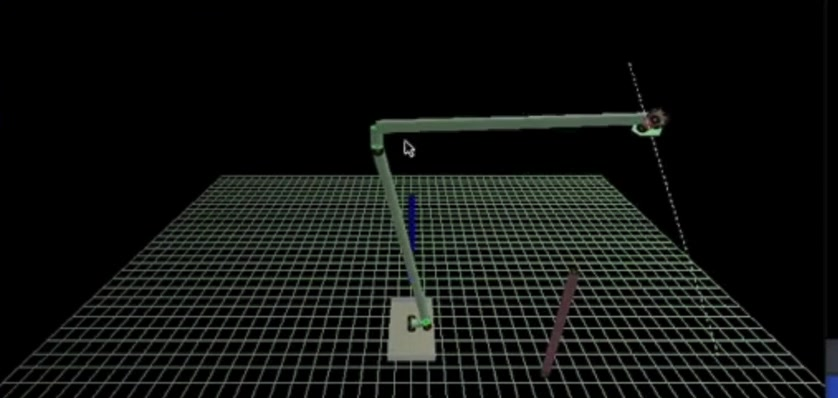
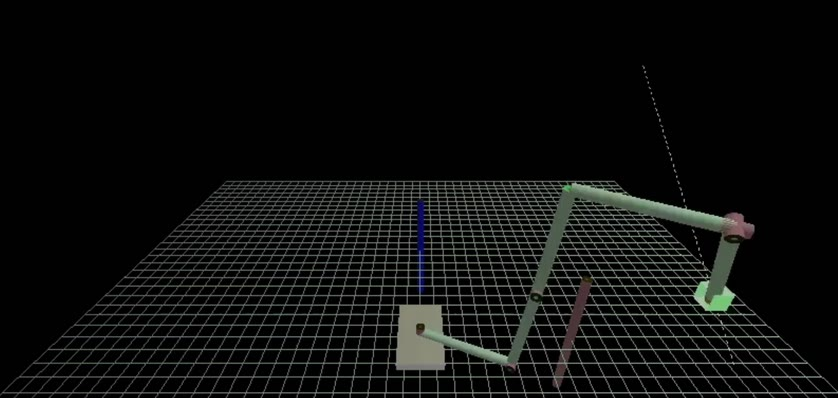
portfolio/resume: reorder projects, drop TimberTimer, refresh 6-DOF media, monospace font
- portfolio web + PDF: move the 6-DOF robot project above the hackathon
- remove TimberTimer from homepage and portfolio web; remove the Web Apps
  section entirely from the portfolio PDF (now 11 pages)
- regenerate 6-DOF poster + demo webm from the updated recording
  (cropped to the OpenGL viewport; lighter web video, 382KB)
- site font -> VSCode-style monospace stack (homepage + portfolio web)
- homepage: make the intro heading match body text size/style
- resume: add control/estimation + ML skills (MPC/PID/LQR/KF-EKF/2D SLAM,
  GP, NN, motion planning), MATLAB/CasADi/OpenCV, undergrad thesis; tidy the
  skills section, rename sections, fix bullet punctuation

Changed region(s): [[0.0, 0.2412, 1.0, 1.0], [0.7446, 0.1508, 0.7757, 0.2111]]

diff --git a/portfolio/index.html b/portfolio/index.html
@@ -32,7 +32,7 @@
             --accent: #3b82f6;
             --border: #333333;
             --card-bg: #1a1a1a;
-            --font-main: -apple-system, BlinkMacSystemFont, "Segoe UI", Roboto, Helvetica, Arial, sans-serif;
+            --font-main: 'Droid Sans Mono', Menlo, Monaco, Consolas, 'Courier New', monospace;
         }
 
         [data-theme="light"] {
@@ -565,6 +565,34 @@
         </article>
 
         <article class="project">
+            <h2>6-DOF Robot Manipulator Simulation (OpenGL)</h2>
+            <div class="tags">
+                <span class="tag">Robotics course project</span>
+                <span class="tag">Robot kinematics</span>
+                <span class="tag">C / OpenGL</span>
+                <span class="tag">Universitas Indonesia</span>
+                <span class="tag">May 2023</span>
+            </div>
+            <ul>
+                <li>Built as a project for a robotics course at Universitas Indonesia.</li>
+                <li>Real-time 3D visualization of a 6-DOF robot arm, built in C with OpenGL (GLUT).</li>
+                <li>Implements forward kinematics and Jacobian pseudoinverse-based inverse kinematics for end-effector
+                    position control.</li>
+                <li>Generates linear point-to-point trajectories between commanded poses.</li>
+                <li>Streams joint commands to the physical robot over serial communication.</li>
+            </ul>
+            <div class="project-media">
+                <video muted loop playsinline preload="none" data-autoplay width="838" height="398"
+                    poster="robot6dof.jpg">
+                    <source src="robot6dof_demo.webm" type="video/webm">
+                </video>
+            </div>
+            <div class="project-links">
+                <a href="https://github.com/hanifedma/robot-6dof-opengl" target="_blank">Source &rarr;</a>
+            </div>
+        </article>
+
+        <article class="project">
             <h2>Corrosion Detection App (Computer Vision)</h2>
             <div class="tags">
                 <span class="tag award">🏆 1st place</span>
@@ -597,64 +625,7 @@
             </div>
         </article>
 
-        <article class="project">
-            <h2>6-DOF Robot Manipulator Simulation (OpenGL)</h2>
-            <div class="tags">
-                <span class="tag">Robotics course project</span>
-                <span class="tag">Robot kinematics</span>
-                <span class="tag">C / OpenGL</span>
-                <span class="tag">Universitas Indonesia</span>
-                <span class="tag">May 2023</span>
-            </div>
-            <ul>
-                <li>Built as a project for a robotics course at Universitas Indonesia.</li>
-                <li>Real-time 3D visualization of a 6-DOF robot arm, built in C with OpenGL (GLUT).</li>
-                <li>Implements forward kinematics and Jacobian pseudoinverse-based inverse kinematics for end-effector
-                    position control.</li>
-                <li>Generates linear point-to-point trajectories between commanded poses.</li>
-                <li>Streams joint commands to the physical robot over serial communication.</li>
-            </ul>
-            <div class="project-media">
-                <video muted loop playsinline preload="none" data-autoplay width="838" height="398"
-                    poster="robot6dof.jpg">
-                    <source src="robot6dof_demo.webm" type="video/webm">
-                </video>
-            </div>
-            <div class="project-links">
-                <a href="https://github.com/hanifedma/robot-6dof-opengl" target="_blank">Source &rarr;</a>
-            </div>
-        </article>
-
         <p class="section-label">Web Apps</p>
-
-        <article class="project">
-            <h2>TimberTimer</h2>
-            <div class="tags">
-                <span class="tag">Web app</span>
-                <span class="tag">Vanilla JS</span>
-                <span class="tag">Supabase</span>
-                <span class="tag">PWA</span>
-            </div>
-            <ul>
-                <li>Minimalist, jungle-themed focus timer that grows a virtual forest — one tree per completed session.
-                </li>
-                <li>Rest stopwatch, editable session history, and daily and cumulative stats.</li>
-                <li>Local-first storage with optional cross-device sync (Supabase + Google sign-in).</li>
-                <li>Installable as a Progressive Web App; built with vanilla JavaScript, HTML, and CSS.</li>
-            </ul>
-            <div class="project-media">
-                <picture>
-                    <source srcset="timbertimer.webp" type="image/webp">
-                    <img src="timbertimer.jpg"
-                        alt="TimberTimer app — focus timer with session settings, to-do list, and a weekly forest"
-                        loading="lazy" width="960" height="615">
-                </picture>
-            </div>
-            <div class="project-links">
-                <a href="https://hanifedma.com/timbertimer" target="_blank">Open app &rarr;</a>
-                <a href="https://github.com/hanifedma/timbertimer" target="_blank">Source &rarr;</a>
-            </div>
-        </article>
 
         <article class="project">
             <h2>CanopyDiary</h2>

diff --git a/index.html b/index.html
@@ -32,7 +32,7 @@
             --accent: #3b82f6;
             --border: #333333;
             --card-bg: #1a1a1a;
-            --font-main: -apple-system, BlinkMacSystemFont, "Segoe UI", Roboto, Helvetica, Arial, sans-serif;
+            --font-main: 'Droid Sans Mono', Menlo, Monaco, Consolas, 'Courier New', monospace;
         }
 
         [data-theme="light"] {
@@ -302,12 +302,11 @@
         }
 
         header h1 {
-            font-size: 2rem;
-            font-weight: 700;
-            line-height: 1.25;
-            letter-spacing: -0.01em;
-            margin-bottom: 1.5rem;
-            color: var(--text-primary);
+            font-size: 1.0625rem;
+            font-weight: 400;
+            line-height: 1.6;
+            margin-bottom: 1.25rem;
+            color: var(--text-secondary);
         }
 
         p {
@@ -515,9 +514,8 @@
                     <strong><a href="https://gp-ramppi.github.io/" target="_blank">gp-ramppi.github.io</a></strong>.
                 </p>
                 <p>
-                    On the side, I build and run a couple of web apps that I use myself and that anyone is welcome
-                    to use—<strong><a href="https://hanifedma.com/timbertimer" target="_blank">TimberTimer</a></strong>
-                    and <strong><a href="https://hanifedma.com/canopydiary" target="_blank">CanopyDiary</a></strong>.
+                    On the side, I build and run a web app that I use myself and that anyone is welcome
+                    to use—<strong><a href="https://hanifedma.com/canopydiary" target="_blank">CanopyDiary</a></strong>.
                 </p>
                 <p>
                     Outside of work, I enjoy running 🏃, watching movies, and deep-diving into math videos—especially

diff --git a/portfolio-pdf/portfolio.tex b/portfolio-pdf/portfolio.tex
@@ -60,7 +60,7 @@
   \begin{center}
     {\Huge\bfseries\color{textmain} Portfolio}\\[0.4em]
     {\LARGE\color{textmain} Hanif Edma}\\[0.9em]
-    {\large\color{textsec} Research, engineering projects, and web apps}\\[1.6em]
+    {\large\color{textsec} Research and engineering projects}\\[1.6em]
     {\large See it live: \url{https://hanifedma.com/portfolio}}
   \end{center}
   \vfill
@@ -162,6 +162,31 @@
   \end{itemize}
 \end{frame}
 
+% --- 6-DOF robot arm: picture then explanation ---
+\begin{frame}{6-DOF Robot Manipulator Simulation (OpenGL)}
+  \kicker{Engineering Projects}
+  \vfill
+  \begin{center}
+    \includegraphics[height=0.66\textheight,keepaspectratio]{robot6dof.jpg}
+  \end{center}
+  \vfill
+\end{frame}
+
+\begin{frame}{6-DOF Robot Manipulator Simulation (OpenGL)}
+  \kicker{Engineering Projects}
+  \chip{Robotics course project}\chip{Robot kinematics}\chip{C / OpenGL}\chip{Universitas Indonesia}\chip{May 2023}
+  \bigskip
+  \begin{itemize}\setlength\itemsep{8pt}
+    \item Built as a project for a robotics course at Universitas Indonesia.
+    \item Real-time 3D visualization of a 6-DOF robot arm, built in C with OpenGL (GLUT).
+    \item Implements forward kinematics and Jacobian pseudoinverse-based inverse kinematics for end-effector position control.
+    \item Generates linear point-to-point trajectories between commanded poses.
+    \item Streams joint commands to the physical robot over serial communication.
+  \end{itemize}
+  \vfill
+  \linkline{Source code}{https://github.com/hanifedma/robot-6dof-opengl}
+\end{frame}
+
 % --- Corrosion detection: picture then explanation ---
 \begin{frame}{Corrosion Detection App (Computer Vision)}
   \kicker{Engineering Projects}
@@ -189,84 +214,6 @@
     \item Delivered within a one-month timeframe.
     \item Won 1st place at SciHackfest 2023 (a hackathon held by PT Sucofindo) --- prize 25 million IDR ($\sim$\$1{,}600), as a team of 3.
   \end{itemize}
-\end{frame}
-
-% --- 6-DOF robot arm: picture then explanation ---
-\begin{frame}{6-DOF Robot Manipulator Simulation (OpenGL)}
-  \kicker{Engineering Projects}
-  \vfill
-  \begin{center}
-    \includegraphics[height=0.66\textheight,keepaspectratio]{robot6dof.jpg}
-  \end{center}
-  \vfill
-\end{frame}
-
-\begin{frame}{6-DOF Robot Manipulator Simulation (OpenGL)}
-  \kicker{Engineering Projects}
-  \chip{Robotics course project}\chip{Robot kinematics}\chip{C / OpenGL}\chip{Universitas Indonesia}\chip{May 2023}
-  \bigskip
-  \begin{itemize}\setlength\itemsep{8pt}
-    \item Built as a project for a robotics course at Universitas Indonesia.
-    \item Real-time 3D visualization of a 6-DOF robot arm, built in C with OpenGL (GLUT).
-    \item Implements forward kinematics and Jacobian pseudoinverse-based inverse kinematics for end-effector position control.
-    \item Generates linear point-to-point trajectories between commanded poses.
-    \item Streams joint commands to the physical robot over serial communication.
-  \end{itemize}
-  \vfill
-  \linkline{Source code}{https://github.com/hanifedma/robot-6dof-opengl}
-\end{frame}
-
-% ========== WEB APPS ==========
-\section{Web Apps}
-
-% --- TimberTimer: picture then explanation ---
-\begin{frame}{TimberTimer}
-  \kicker{Web Apps}
-  \vfill
-  \begin{center}
-    \includegraphics[height=0.66\textheight,keepaspectratio]{timbertimer.jpg}
-  \end{center}
-  \vfill
-\end{frame}
-
-\begin{frame}{TimberTimer}
-  \kicker{Web Apps}
-  \chip{Web app}\chip{Vanilla JS}\chip{Supabase}\chip{PWA}
-  \bigskip
-  \begin{itemize}\setlength\itemsep{8pt}
-    \item Minimalist, jungle-themed focus timer that grows a virtual forest --- one tree per completed session.
-    \item Rest stopwatch, editable session history, and daily and cumulative stats.
-    \item Local-first storage with optional cross-device sync (Supabase + Google sign-in).
-    \item Installable as a Progressive Web App; built with vanilla JavaScript, HTML, and CSS.
-  \end{itemize}
-  \vfill
-  \linkline{Live app}{https://hanifedma.com/timbertimer}\\[5pt]
-  \linkline{Source code}{https://github.com/hanifedma/timbertimer}
-\end{frame}
-
-% --- CanopyDiary: picture then explanation ---
-\begin{frame}{CanopyDiary}
-  \kicker{Web Apps}
-  \vfill
-  \begin{center}
-    \includegraphics[height=0.66\textheight,keepaspectratio]{canopydiary.jpg}
-  \end{center}
-  \vfill
-\end{frame}
-
-\begin{frame}{CanopyDiary}
-  \kicker{Web Apps}
-  \chip{Web app}\chip{Vanilla JS}\chip{Supabase}\chip{PWA}
-  \bigskip
-  \begin{itemize}\setlength\itemsep{8pt}
-    \item Lightweight, local-first diary web app with dated notes.
-    \item Date-sorted photo gallery kept separate from the written notes.
-    \item Autosave and manual PDF export for selected date ranges.
-    \item Optional cloud sync via Supabase + Google sign-in; built with vanilla JavaScript, HTML, and CSS.
-  \end{itemize}
-  \vfill
-  \linkline{Live app}{https://hanifedma.com/canopydiary}\\[5pt]
-  \linkline{Source code}{https://github.com/hanifedma/canopydiary}
 \end{frame}
 
 \end{document}

diff --git a/resume/resume.tex b/resume/resume.tex
@@ -58,13 +58,16 @@
 \section*{Technical Skills \& Languages}
 
 \begin{itemize}[leftmargin=*, noitemsep]
-    \item \textbf{Skills:} Electrical engineering, robotic engineering, control engineering, IT
-    \item \textbf{Programming \& Software:} Robot Operating System (ROS1/ROS2), Gazebo, move\_base/Nav2, C/C++, Linux, Git, Docker, RTOS (FreeRTOS ESP32), Web Development, Flutter
-    \item \textbf{Hardware \& IoT Devices:} NVIDIA Jetson, Raspberry Pi, Arduino, ESP32
-    \item \textbf{Languages:} Bahasa Indonesia (native), English (IELTS Academic Band 7.0, 2023), Korean (beginner)
+    \item \textbf{Expertise:} Mobile Robotics, Control \& Estimation, Electrical Engineering
+    \item \textbf{Control \& Estimation:} Model Predictive Control (MPC/MPPI/MPCC), PID, LQR, Kalman Filter (KF/EKF), 2D SLAM (mobile robot), Motion Planning \& Trajectory Optimization
+    \item \textbf{Machine Learning:} Gaussian Process (GP/SGP), Neural Networks, Imitation Learning, PyTorch \& TensorFlow (basic)
+    \item \textbf{Programming \& Frameworks:} ROS1/ROS2, C/C++, Python, MATLAB/Simulink, CasADi, Flutter, HTML/CSS/JavaScript, OpenCV (basic)
+    \item \textbf{Tools \& Platforms:} Gazebo, move\_base, Linux, Git, Docker
+    \item \textbf{Hardware \& IoT:} NVIDIA Jetson, Raspberry Pi, Arduino, ESP32
+    \item \textbf{Spoken Languages:} Bahasa Indonesia (native), English (IELTS Academic Band 7.0, 2023), Korean (elementary)
 \end{itemize}
 
-\section*{Education Level}
+\section*{Education}
 
 \noindent
 \begin{minipage}[t]{0.68\textwidth}
@@ -77,7 +80,7 @@
     Feb 2024 -- Aug 2026 (Expected)
 \end{minipage}
 \begin{itemize}[leftmargin=*, noitemsep]
-    \item Recipient of SEOULTECH scholarship; Research Assistant; specialization in control engineering and robotics
+    \item Recipient of SEOULTECH scholarship; Research Assistant; Special elective robotics and control engineering
 \end{itemize}
 
 \noindent
@@ -92,9 +95,10 @@
 \end{minipage}
 \begin{itemize}[leftmargin=*, noitemsep]
     \item Special elective robotics and control engineering
+    \item \textbf{Thesis:} ``Design of Adaptive Extended Kalman Filter to Estimate State of Charge of Lithium-Ion Battery''
 \end{itemize}
 
-\section*{Work Experiences}
+\section*{Experience}
 
 \noindent
 \begin{minipage}[t]{0.68\textwidth}
@@ -115,17 +119,17 @@
 
 \noindent
 \begin{minipage}[t]{0.68\textwidth}
-    \textbf{Universitas Indonesia} \\
-    \textit{Research Assistant (Undergraduate Thesis)}
+    \textbf{DoctorTool (PT Medifa Infoyasa Suryantara)} \\
+    \textit{IoT Engineer Intern}
 \end{minipage}%
 \begin{minipage}[t]{0.32\textwidth}
     \raggedleft
-    Depok, Indonesia \\
-    Jan 2023 -- Jun 2023
+    Jakarta, Indonesia \\
+    Feb 2022 -- Jul 2022
 \end{minipage}
 \begin{itemize}[leftmargin=*, noitemsep]
-    \item Implemented an Equivalent Circuit Model (ECM)-based Adaptive Extended Kalman Filter (AEKF) with online parameter identification via Variable Recursive Least Squares (VRLS) for State of Charge (SoC) estimation of Li-Ion batteries in MATLAB simulation
-    \item Achieved SoC RMSE of 0.02827 (LiFePO4) and 0.01517 (LiCoO2), outperforming Extended Kalman Filter (EKF) and Coulomb Counting baselines
+    \item Developed IoT medical devices to enhance measurement activities at posyandu, integrating various medical apparatus
+    \item Engineered connectivity for over six categories of devices, such as thermometers, oximeters, and other biometric sensors
 \end{itemize}
 
 \section*{Other Projects}